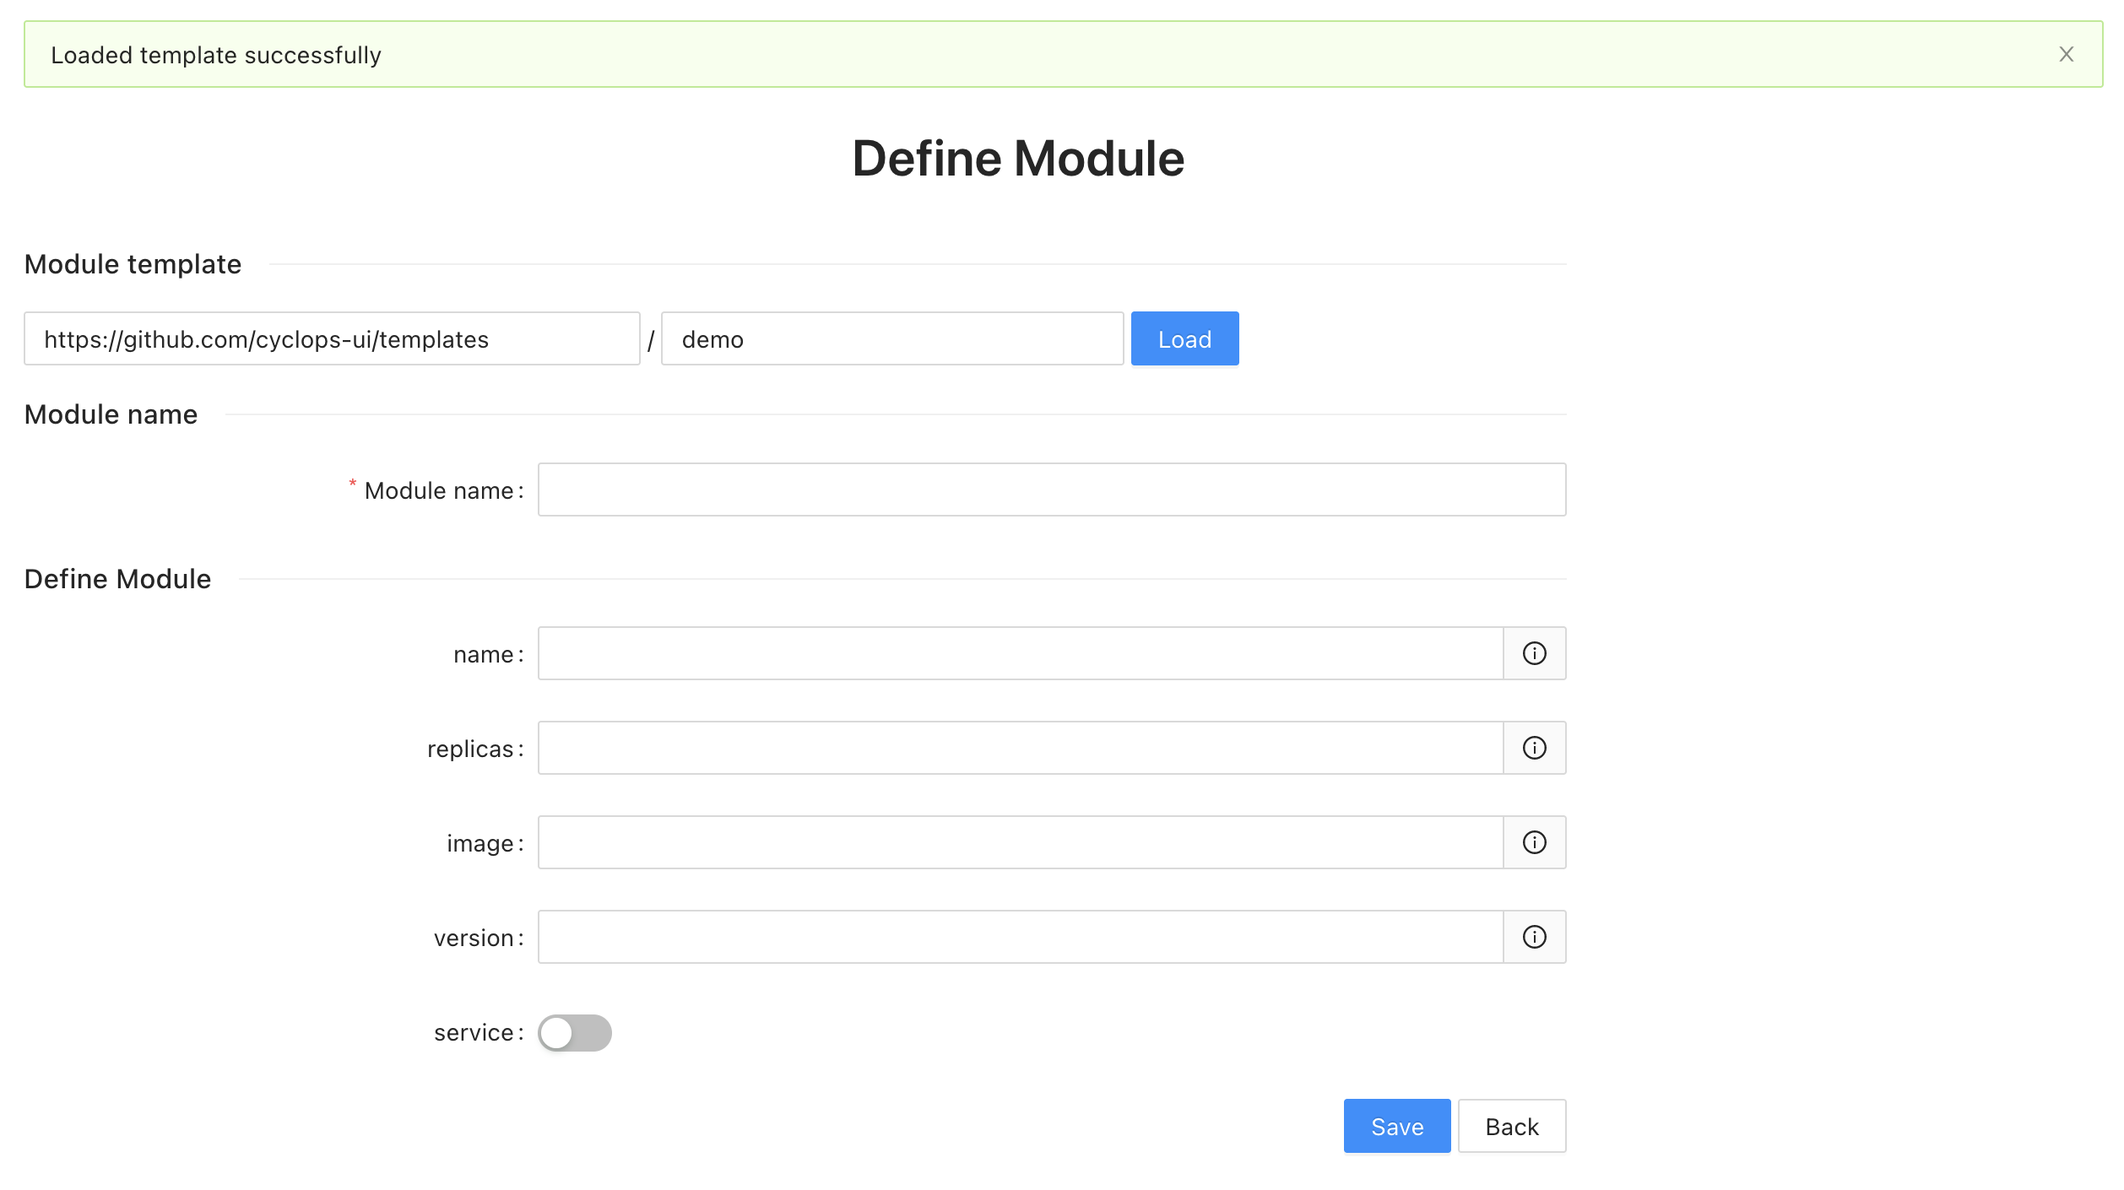
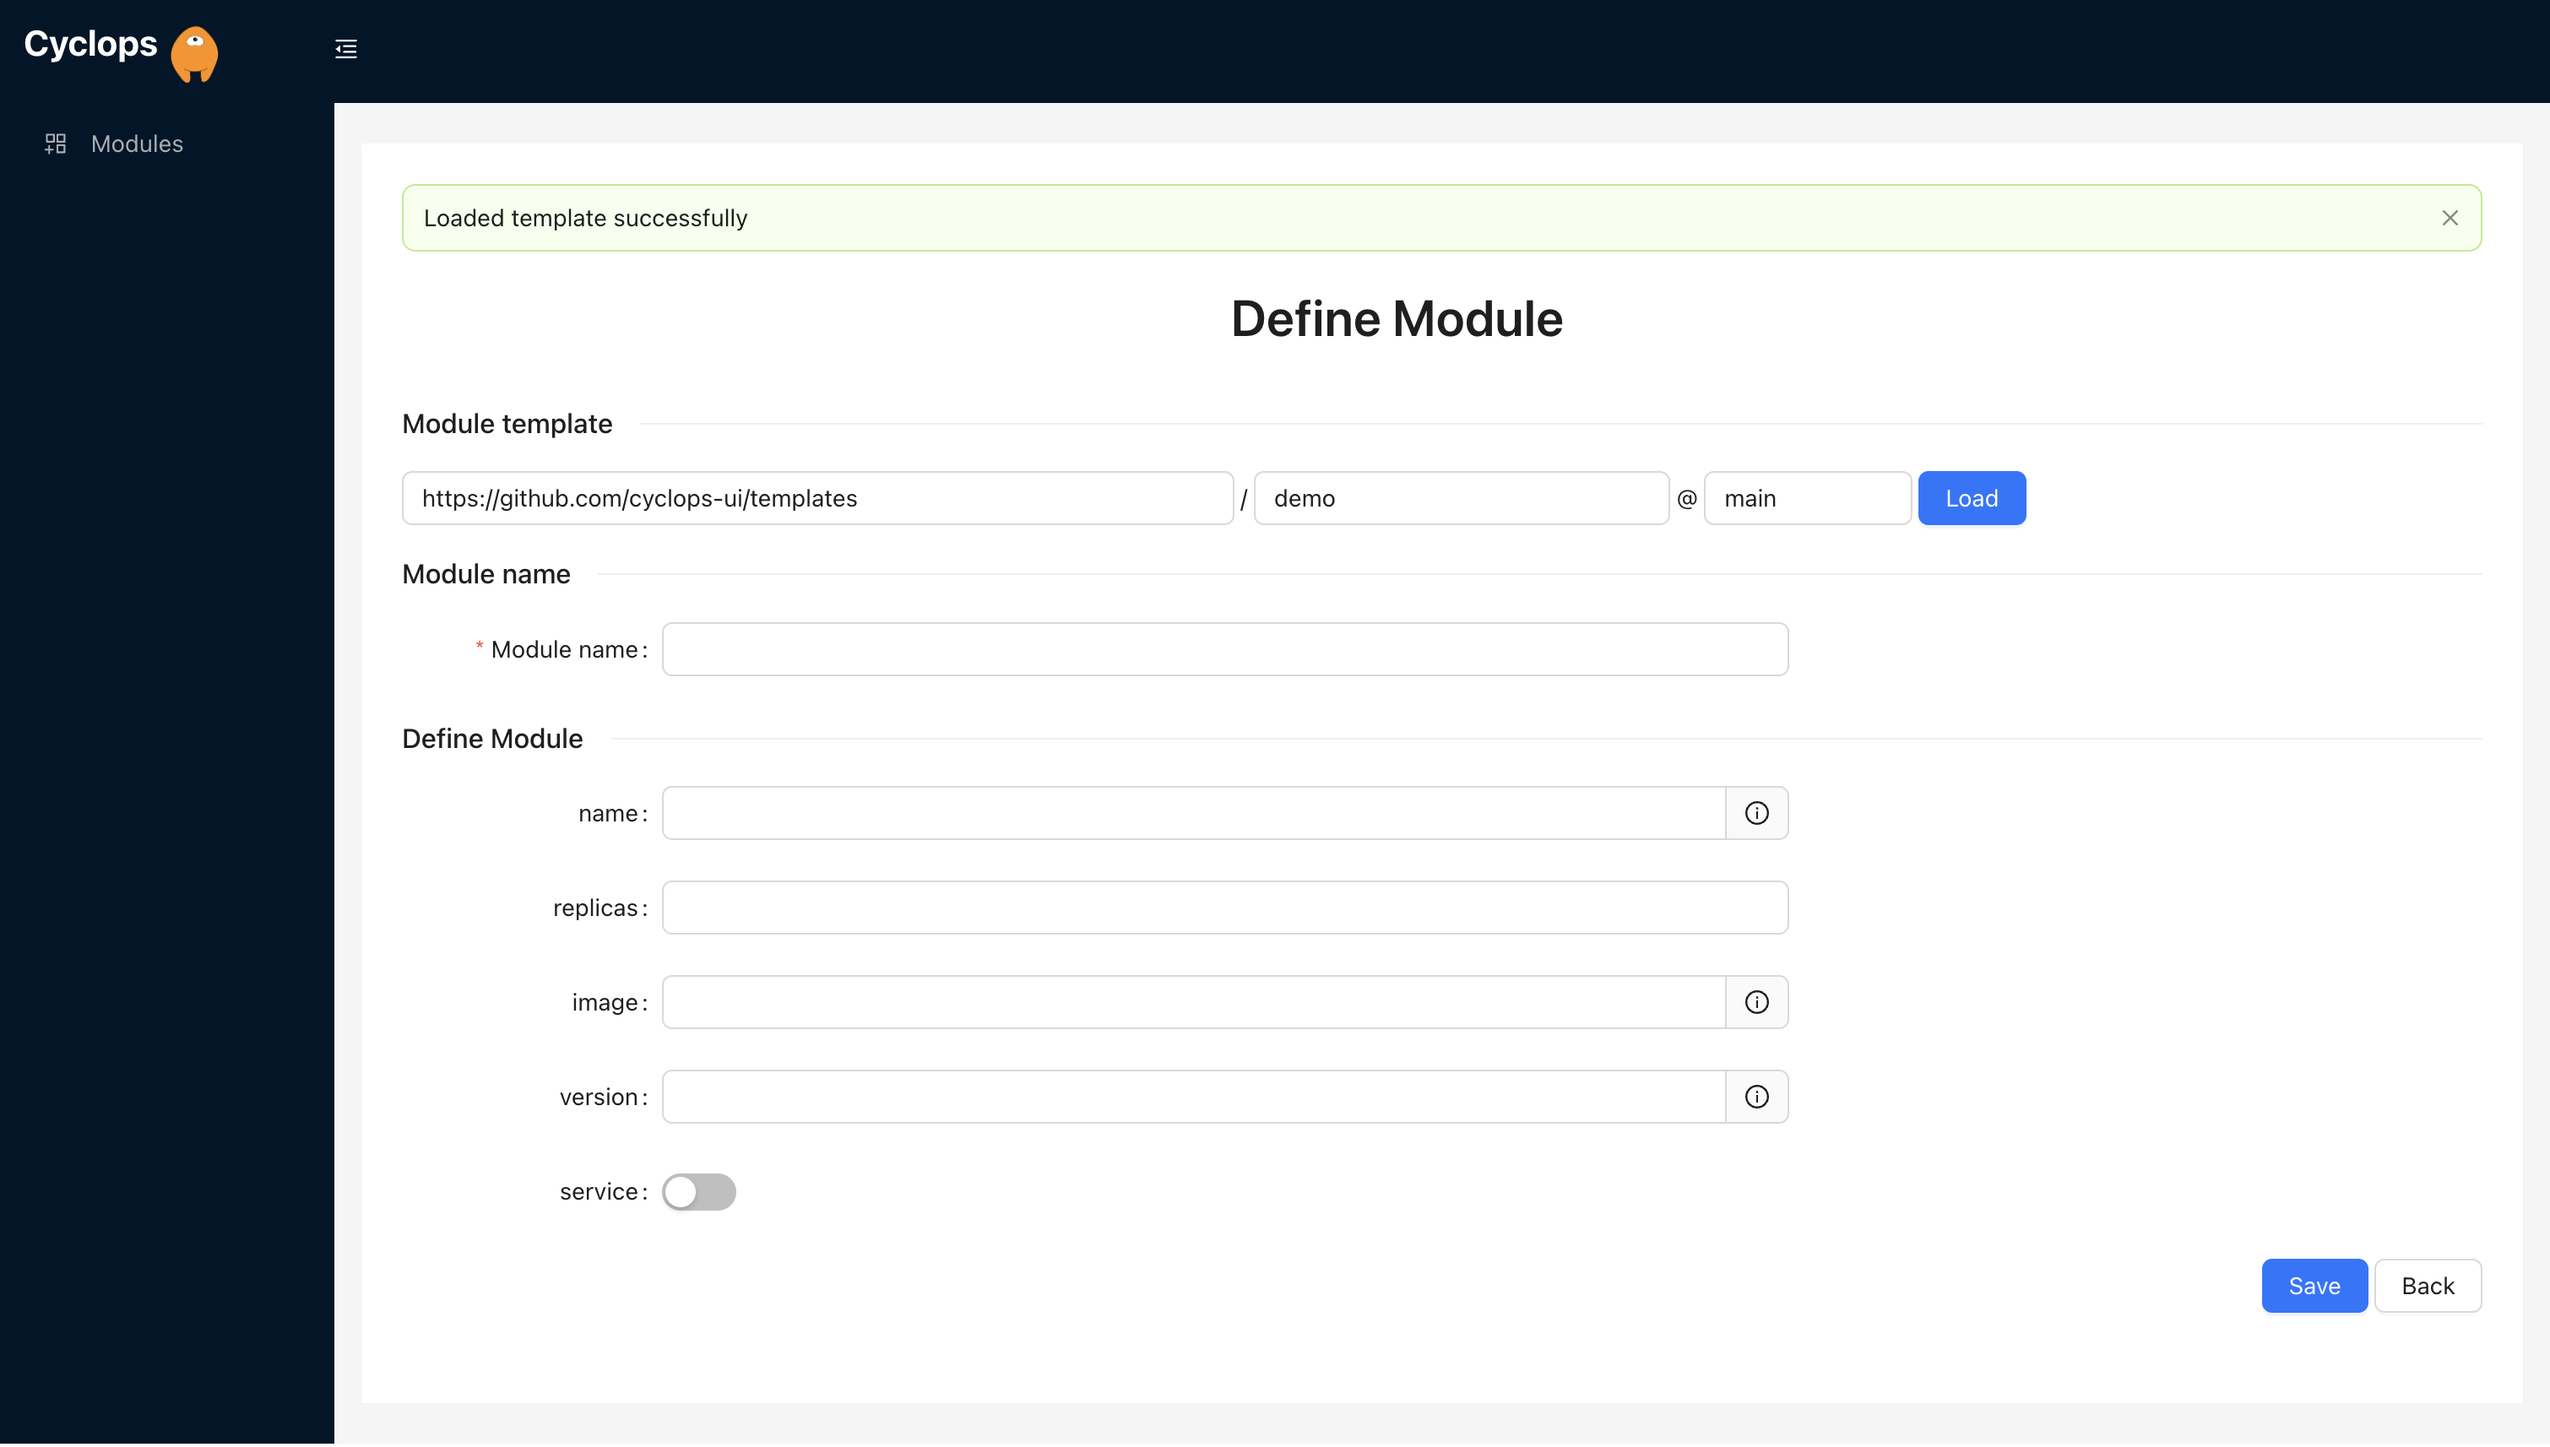
update docs with latest features

diff --git a/web/sidebars.js b/web/sidebars.js
@@ -54,6 +54,11 @@ const sidebars = {
       ],
     },
     {
+      label: 'Writing templates',
+      id: 'templates/templates',
+      type: 'doc',
+    },
+    {
       label: 'Roadmap',
       id: 'roadmap/roadmap',
       type: 'doc',

diff --git a/web/docs/installation/demo/new_module.md b/web/docs/installation/demo/new_module.md
@@ -9,8 +9,11 @@ empty at the moment. What we want to do next is click on the _Add module_ button
 ## Define your module
 Now we want to define our new module. Under the _Module template_ we want to put the url that leads towards a GitHub
 repository where we saved our configuration files. For the sake of this tutorial we will be using our own 
-[repository](https://github.com/cyclops-ui/templates) (`https://github.com/cyclops-ui/templates/tree/main/demo`) which holds a configuration template we made for testing purposes.
-Feel free to use our template repository! We will be using the _demo_ template from the repository.
+[template](https://github.com/cyclops-ui/templates) which holds a configuration template we made for testing purposes.
+Feel free to use our template repository! We will be using the _demo_ template from the repository. Also for any
+template you can specify the version which is the third field. If you are referncing a template stored in git you can 
+specify a version as a branch name, tag or a commit hash. If you don't specify anything, it would default to the latest
+commit on the default branch.
 
 ![Filled Module Template](../../../static/img/demo/module_template.png?raw=true "Filled Module Template")
 
@@ -55,15 +58,16 @@ application.
 
 ## Potential problems
 ### Error loading template
-This usually means that you didn't input the right `url + path`. When loading the template to Cyclops, you need to copy
-the URL from the GitHub repository that leads to the template. The URL must lead towards a directory that holds a 
-`template` folder.
+This usually means that you didn't input the right `url + path + version`. When loading the template to Cyclops, you 
+need to copy the URL from the GitHub repository that leads to the template. The URL must lead towards a directory that
+holds a `template` folder.
 
 In our example we used this URL { https://github.com/cyclops-ui/templates/tree/main/demo } and filled
 the form with the values bellow:
     
     repository: https://github.com/cyclops-ui/templates
     path: demo    
+    version: main
 
 ### Naming
 If Cyclops seemingly freezes when trying to save the module, it probably means you didn't follow [the Kubernetes naming

diff --git a/web/docs/templates/templates.md b/web/docs/templates/templates.md
@@ -1,0 +1,13 @@
+# Writing templates
+
+You can create your own template UIs by creating a helm template and pushing to a git repository. Cyclops renders the
+form based on the `values.schema.json` file. That file is used to define values structure in Helm. You can learn more
+about it and learn how to create one by following [Helm docs](https://helm.sh/docs/topics/charts/#schema-files).
+
+On top of the usual schema, we added some more fields to help our users get as much from the UI.
+
+| Name            | Type         | Description                                                                                                                                                                       | Valid input  |
+|:----------------|--------------|:----------------------------------------------------------------------------------------------------------------------------------------------------------------------------------|--------------|
+| `order`         | string array | Defines the order of the fields in an object type property. <br/> Basically each time you use `properties`, you should also define the order of those properties                  | -            |
+| `fileExtension` | string       | Sometimes you would like your text field not to be just a field, but also to get some highlighting based on the type of string you are saving. You can specify that in this field | `json`, `sh` |
+

diff --git a/web/docs/installation/install.md b/web/docs/installation/install.md
@@ -5,7 +5,7 @@
 To install Cyclops in your cluster, run commands below:
 
 ```bash
-kubectl apply -f https://raw.githubusercontent.com/cyclops-ui/cyclops/v0.0.1-alpha.3/install/cyclops-install.yaml
+kubectl apply -f https://raw.githubusercontent.com/cyclops-ui/cyclops/v0.0.1-alpha.4/install/cyclops-install.yaml
 ```
 
 It will create a new namespace called `cyclops` and deploy everything you need for your Cyclops instance to run.

diff --git a/web/docs/installation/demo/logs.md b/web/docs/installation/demo/logs.md
@@ -33,6 +33,7 @@ Since we have 2 containers in the pod, there are 2 tabs in the popup window - on
 
 If the pod doesn't have any logs, it will be indicated that there are no logs available for the pod.
 
+Also, you can download the logs into a file to inspect all container logs.
 
 ## Potential problems
 ### Error loading template
